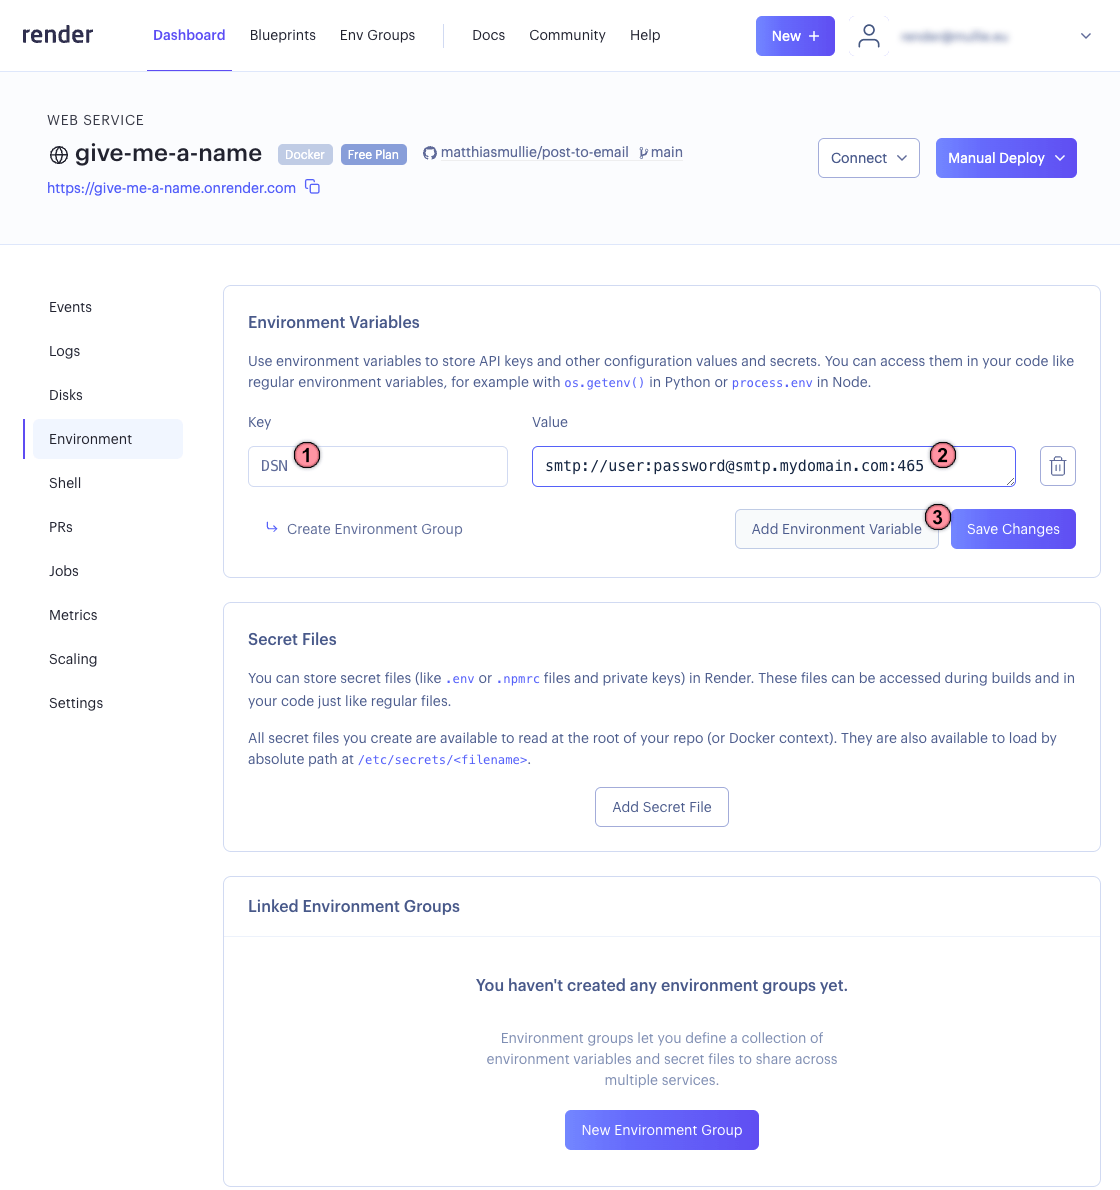
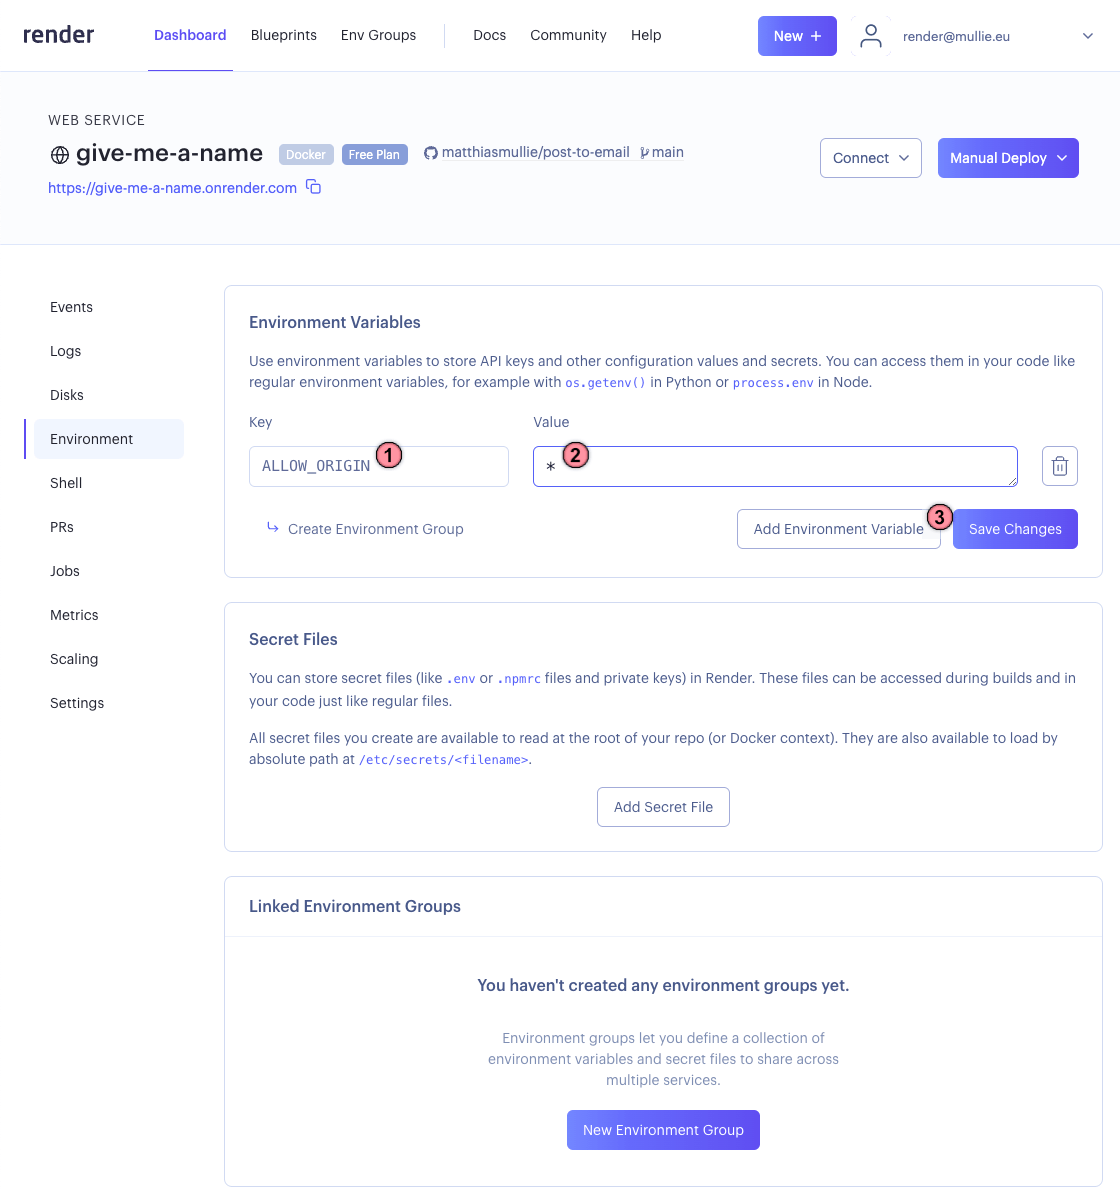
Make ALLOW_ORIGIN & DSN required env variables

diff --git a/index.php b/index.php
@@ -8,15 +8,19 @@ use Symfony\Component\Mime\Email;
 require __DIR__ . '/vendor/autoload.php';
 
 $config = [
+    'ALLOW_ORIGIN' => getenv('ALLOW_ORIGIN'),
     'DSN' => getenv('DSN') ?: $_POST['DSN'] ?? $_GET['DSN'] ?? '',
     'SENDER' => getenv('SENDER') ?: $_POST['SENDER'] ?? $_GET['SENDER'] ?? '',
     'RECIPIENT' => getenv('RECIPIENT') ?: $_POST['RECIPIENT'] ?? $_GET['RECIPIENT'] ?? '',
     'REPLY_TO' => getenv('REPLY_TO') ?: $_POST['REPLY_TO'] ?? $_GET['REPLY_TO'] ?? '',
     'SUBJECT' => getenv('SUBJECT') ?: $_POST['SUBJECT'] ?? $_GET['SUBJECT'] ?? 'Form to email',
     'REDIRECT' => getenv('REDIRECT') ?: $_POST['REDIRECT'] ?? $_GET['REDIRECT'] ?? $_SERVER['HTTP_REFERER'] ?? '',
-    'ALLOW_ORIGIN' => getenv('ALLOW_ORIGIN') ?: '*',
 ];
 
+if ($config['ALLOW_ORIGIN'] === false) {
+    http_response_code(400);
+    exit("Missing config for 'ALLOW_ORIGIN'");
+}
 header("Access-Control-Allow-Origin: {$config['ALLOW_ORIGIN']}");
 
 $required = ['DSN', 'SENDER', 'RECIPIENT'];

diff --git a/instructions/1-paas.md b/instructions/1-paas.md
@@ -54,6 +54,14 @@ In order to be able to receive emails, you'll need to configure a couple of thin
 
 ![text](assets/render-3a.png)
 
+- Add a key called `ALLOW_ORIGIN`
+- As value, enter the domain you want to accept requests from (e.g. `https://my-website.com`), or `*` to allow requests from anywhere
+  - To prevent abuse, I'd recommend locking things down to a specific domain unless there's a good reason not to
+  - Read up on [Access-Control-Allow-Origin](https://developer.mozilla.org/en-US/docs/Web/HTTP/Headers/Access-Control-Allow-Origin) if you want to learn more
+- Click "Add Environment Variable" to add the next one
+
+![text](assets/render-3b.png)
+
 - Add a key called `DSN` (short for "Data Source Name")
 - As value, enter your SMTP connection string
   - This usually takes the form of `smtp://<username>:<password>@<smtp-server>:<port>`
@@ -61,18 +69,18 @@ In order to be able to receive emails, you'll need to configure a couple of thin
     - Note: If your email account is secured with multi-factor authentication, you may need to create an app password. Here's some documentation for [Gmail](https://support.google.com/accounts/answer/185833?hl=en) and [Outlook](https://support.microsoft.com/en-us/account-billing/manage-app-passwords-for-two-step-verification-d6dc8c6d-4bf7-4851-ad95-6d07799387e9)
 - Click "Add Environment Variable" to add the next one
 
-![text](assets/render-3b.png)
+![text](assets/render-3c.png)
 
 In this example, we'll also set the recipient so that any email sent through this arrives at your email address.
 
-While it's possible to include these variables in the data your form will submit, it makes sense to hard-code some of these in the web service, to prevent others from being able to (ab)use your service.
+While it's possible to include this variable in the data your form will submit, it makes sense to hard-code some of these in the web service, to prevent others from being able to (ab)use your service.
 
 - Add a key called `RECIPIENT`
 - As value, enter the email address you want to receive emails at
   - This can take either `my-email@example.com` or `My Name <my-email@example.com>` format
 - Unless you want to hard-code more settings (e.g. `ALLOW_ORIGIN`, `SUBJECT`, ... - see [the full list of configuration options](../README.md#configuration)), click "Save changes"
 
-![text](assets/render-3c.png)
+![text](assets/render-3d.png)
 
 
 ## 4. Deployment complete

diff --git a/README.md b/README.md
@@ -42,10 +42,10 @@ This can be useful to lock down certain settings (e.g. `RECIPIENT` or `DSN`) wit
 
 Available params:
 
-* `DSN`: DSN string for a transport (e.g. SMTP) to send emails with
+* `ALLOW_ORIGIN` **[ENV only]**: allowed CORS domain
+* `DSN` **[ENV only]**: DSN string for a transport (e.g. SMTP) to send emails with
 * `SENDER`: sender email address
 * `RECIPIENT`: recipient email address
 * `REPLY_TO` *(optional, defaults to `SENDER`)*: reply-to email address
 * `SUBJECT` *(optional, defaults to "Form to email")*: email subject
 * `REDIRECT` *(optional, defaults to referrer)*: location to redirect back to after handing submission, or explicitly blank for no redirect
-* `ALLOW_ORIGIN` **[ENV only]** *(optional, defaults to `*`)*: allowed CORS domain

diff --git a/instructions/1-byo.md b/instructions/1-byo.md
@@ -15,6 +15,7 @@ docker build -t post-to-email .
 docker run -d \
   --name=post-to-email \
   -p 8080:80 \
+  -e ALLOW_ORIGIN="*" \
   -e DSN="smtp://user:password@smtp.my-domain.com:port" \
   -e RECIPIENT="Matthias Mullie <my-email@example.com>" \
   post-to-email
@@ -30,6 +31,7 @@ services:
     build: .
     container_name: post-to-email
     environment:
+      - ALLOW_ORIGIN=*
       - DSN=smtp://user:password@smtp.my-domain.com:port
       - RECIPIENT=Matthias Mullie <my-email@example.com>
     ports:

diff --git a/instructions/1-docker.md b/instructions/1-docker.md
@@ -6,6 +6,7 @@ Assuming you have access to a web server with support for Docker, you can use th
 docker run -d \
   --name=post-to-email \
   -p 8080:80 \
+  -e ALLOW_ORIGIN="*" \
   -e DSN="smtp://user:password@smtp.my-domain.com:port" \
   -e RECIPIENT="Matthias Mullie <my-email@example.com>" \
   matthiasmullie/post-to-email

diff --git a/instructions/1-docker-compose.md b/instructions/1-docker-compose.md
@@ -12,6 +12,7 @@ services:
     image: matthiasmullie/post-to-email
     container_name: post-to-email
     environment:
+      - ALLOW_ORIGIN=*
       - DSN=smtp://user:password@smtp.my-domain.com:port
       - RECIPIENT=Matthias Mullie <my-email@example.com>
     ports:
